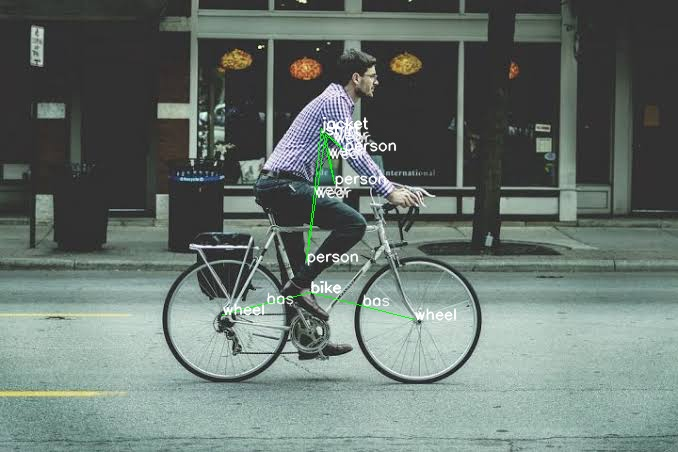
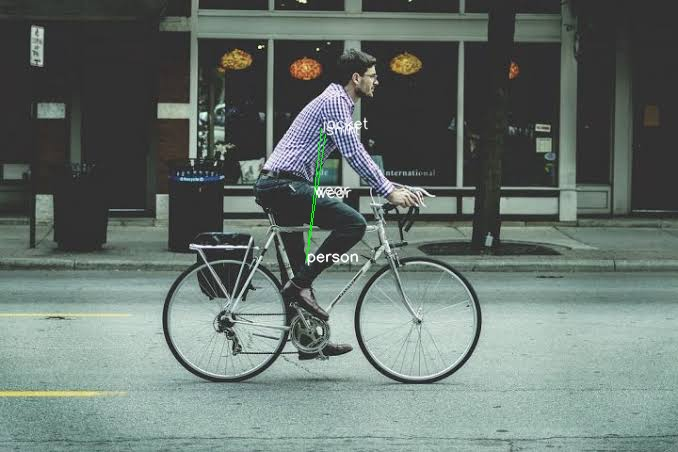
updated

Changed region(s): [[0.4646, 0.2478, 0.5885, 0.4336], [0.4336, 0.6195, 0.6814, 0.7124], [0.3097, 0.6504, 0.4336, 0.7124]]

diff --git a/predict.py b/predict.py
@@ -169,7 +169,7 @@ def main():
 
 			# apply mask for thresholding
 			# mask = scores > 0.2
-			mask = scores > 0.1
+			mask = scores > 0.5
 			preds = preds[mask]
 			scores = scores[mask]
 
